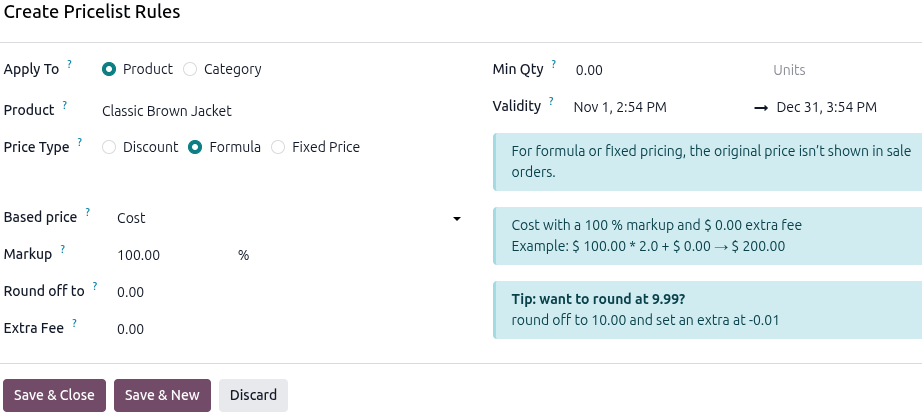
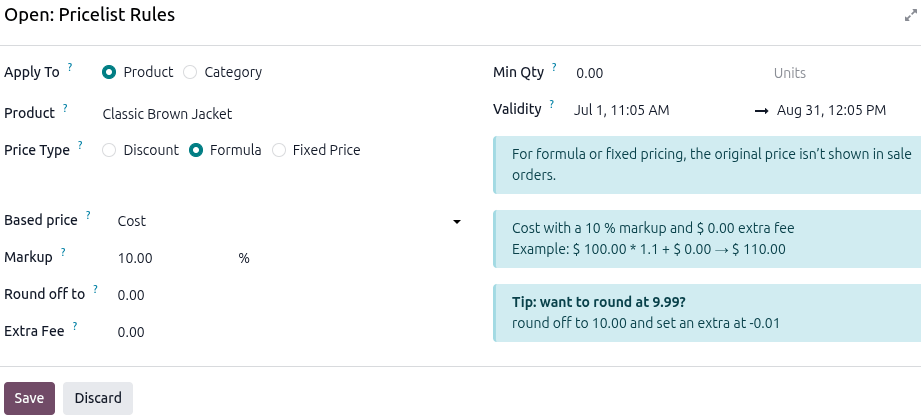
[IMP] sales: pricelist forumla usecase fix
X-original-commit: 66cf0a145ef237606499b628e4a95a3ff6ae05db

diff --git a/content/applications/sales/sales/products_prices/prices/pricing.rst b/content/applications/sales/sales/products_prices/prices/pricing.rst
@@ -3,16 +3,16 @@ Pricelists
 ==========
 
 A *pricelist* is a method of dynamic pricing that applies a list of prices (or price rules) that
-overrides the sales price on a product's product form. This adjustment can set to apply to all
-products sold or tailored to only apply to specific customers, customer groups, sales orders, time
-periods, etc., and is useful for creating pricing strategies and optimizing sales margins.
+overrides the sales price on a product's form. This adjustment can be set to apply to all products
+sold or tailored to only apply to specific customers, customer groups, sales orders, time periods,
+etc., and is useful for creating pricing strategies and optimizing sales margins.
 
 Odoo **Sales** has a useful pricelist feature that can be tailored to fit any unique pricing
 strategy. Pricelists suggest certain prices, but they can always be overridden on the sales order.
 
 .. seealso::
-   - :doc:`/applications/sales/sales/products_prices/prices/currencies`
-   - :doc:`/applications/websites/ecommerce/configuration/prices`
+   - :doc:`currencies`
+   - :doc:`../../../../websites/ecommerce/configuration/prices`
    - :doc:`../../../subscriptions`
 
 .. _sales/products/pricelist-configuration:
@@ -89,7 +89,7 @@ either :guilabel:`Product` or :guilabel:`Category`. Specify the product or categ
 applies to, or leave the field blank to apply to all products or categories.
 
 .. important::
-   If a product doesn't have an assigned category then it is not included in the :guilabel:`All
+   If a product doesn't have an assigned category, then it is not included in the :guilabel:`All
    categories` option.
 
 For :guilabel:`Price Type`, select how the prices are adjusted, either applying a :ref:`Discount
@@ -123,7 +123,7 @@ Once all configurations are complete, either click :guilabel:`Save & Close` to s
 rule, or click :guilabel:`Save & New` to immediately create another pricelist rule on a fresh form.
 
 .. seealso::
-   :doc:`/applications/sales/subscriptions`
+   :doc:`../../../subscriptions`
 
 .. _sales/pricing/price-types:
 
@@ -149,7 +149,7 @@ To configure a discount using a percentage as the computation, select :guilabel:
 :guilabel:`Price Type` and enter the percentage to be discounted. A mark-up can be configured by
 using a negative value in this field.
 
-Next, select the base price Odoo uses to calculate with the discount percentage. The default is
+Next, select the base price Odoo uses to calculate the discount percentage. The default is
 :guilabel:`sales price`, which refers to the *Sales price* field on the product form. Other
 pricelists can be selected for the base price from the drop-down menu. New pricelists can also be
 created from this menu by clicking :guilabel:`Search more` and clicking :guilabel:`Create New`.
@@ -183,7 +183,7 @@ The :guilabel:`Formula` option calculates pricelist rules using these settings:
   :guilabel:`Round off to` are applied.
 
 .. tip::
-   To have prices that end in 9.99, set the :guilabel:`Round off to` to `10` and the
+   To have prices that end in 9.99, set the :guilabel:`Round off to` value to `10` and the
    :guilabel:`Extra Fee` to `-0.01`.
 
 .. _sales/pricing/fixed-price:
@@ -211,10 +211,9 @@ rule on a fresh form.
 Pricelist rule logic
 ====================
 
-Odoo assigns the top pricelist on the *Pricelist* page as default to a quotation as long as there is
-no assigned Pricelist and the pricelist's values are true. This means based on the quotation form
-information, Odoo applies the pricelist that best meets the quotation conditions starting from the
-top of the *Pricelist* page.
+Odoo automatically selects a pricelist for a quotation when none has been manually assigned. It
+checks the pricelists in the order they appear on the *Pricelist* page, from top to bottom, and
+applies the first one whose conditions match the quotation's details.
 
 When multiple pricelist rules apply to the same product on the same pricelist, Odoo determines
 priority using this order:
@@ -272,7 +271,7 @@ without deleting the old one immediately.
 
 .. _sales/pricing/customer-pricelist-application:
 
-Customer specific pricelists
+Customer-specific pricelists
 ============================
 
 When a customer is added to the database, the *Default* pricelist is automatically applied to the
@@ -369,10 +368,10 @@ removed.
 Dynamic pricing based on cost
 ~~~~~~~~~~~~~~~~~~~~~~~~~~~~~
 
-It's approaching winter break, and the most in-demand item is a jacket worn by a popular actress. A
+It's approaching summer, and the most in-demand item is a jacket worn by a popular actress. A
 clothing retail store stocks the jacket, but its inventory is running low. The store decides to sell
-the jacket at a 100% markup with a $5 minimum margin during the winter season while the demand is
-still high. The wholesale price of the jacket is $75 and the cost is $70.
+the jacket at a 10% markup on the cost of the product during the summer while the demand is still
+high. The wholesale price of the jacket is $75, and the cost is $70.
 
 First, navigate to :menuselection:`Sales app --> Products --> Pricelist` and select an existing
 pricelist or click :guilabel:`New` to create a new one.
@@ -383,20 +382,19 @@ On the *Create Pricelist Rules* pop-up window, follow these settings:
 - :guilabel:`Product`: Select *Classic Brown Jacket* from the drop-down menu.
 - :guilabel:`Price Type`: Select :guilabel:`Formula`.
 - :guilabel:`Base price`: Select :guilabel:`Cost` from the drop-down menu.
-- :guilabel:`Markup`: Enter `100`.
-- :guilabel:`Validity`: Select :guilabel:`Range` and select `Nov 1` to `Dec 31`.
+- :guilabel:`Markup`: Enter `10`.
+- :guilabel:`Validity`: Select :guilabel:`Range` and select `Jul 1` to `Aug 31`.
 
 Click :guilabel:`Save & Close` to add the pricelist rule to the pricelist.
 
 .. image:: pricing/example-jacket-formula.png
-   :alt: Formula example for a markup cost with 5 dollar minimum margin in Odoo Sales.
+   :alt: Formula example for a 10% markup on product cost in Odoo Sales.
 
-Then create a quotation for the jacket, select desired pricelist from the :guilabel:`Pricelist`
-drop-down menu and :ref:`set up the Margin and Margin (%) columns
-<sales/margin/margin-sale-order-line>` to show what the values are.
+Then create a quotation for the jacket and select the desired pricelist from the
+:guilabel:`Pricelist` drop-down menu.
 
-.. image:: pricing/example-formula-markup-with-margins.png
-   :alt: Example of a quotation with a pricelist applied and margins enabled.
+.. image:: pricing/example-jacket-formula-orderline.png
+   :alt: Example of a quotation with the markup pricelist applied.
 
 .. seealso::
    :doc:`../../sales_quotations/margin`
@@ -422,7 +420,6 @@ On the *Create Pricelist Rules* pop-up window, follow these settings:
 
 Click :guilabel:`Save & Close` to add the pricelist rule to the pricelist.
 
-
 .. image:: pricing/example-chicken-formula.png
    :alt: Example of a 20% discount with prices rounded to 9.99 in Odoo Sales.
 
@@ -434,9 +431,8 @@ Fixed price use cases
 The *Fixed Price* price type is useful when applying flat rate pricing. The following are scenarios
 where flat rate pricing is applicable:
 
-- Store wide clearance sales.
+- Store-wide clearance sales.
 - Configuring pricing for different units of packaging.
-
 
 Flat sales price for a subcategory
 ~~~~~~~~~~~~~~~~~~~~~~~~~~~~~~~~~~
@@ -493,7 +489,7 @@ For the second pricelist rule, select the same options except for:
 - :guilabel:`Fixed Price`: Enter `2.50`.
 - The packaging field: Select :guilabel:`Pack of 6` from the drop-down menu.
 
-Click :guilabel:`Save & New` to add the pricelist rule to the pricelist and in the last pricelist
+Click :guilabel:`Save & New` to add the pricelist rule to the pricelist, and in the last pricelist
 rule form, repeat the same options except for:
 
 - :guilabel:`Fixed Price`: Enter `2`.

diff --git a/content/applications/essentials/product_catalog.rst b/content/applications/essentials/product_catalog.rst
@@ -59,6 +59,7 @@ details about the corresponding product:
 - Product title
 - Price or cost of the product, depending on whether it is bought, sold, or used as a component
 - Reference code (e.g. *DESK0005*)
+- Available quantity
 - On-hand quantity
 - Variant attributes (e.g., colors, materials, customizations, etc.)
 - :icon:`fa-shopping-cart` :guilabel:`Add` button (if relevant to the current app)
